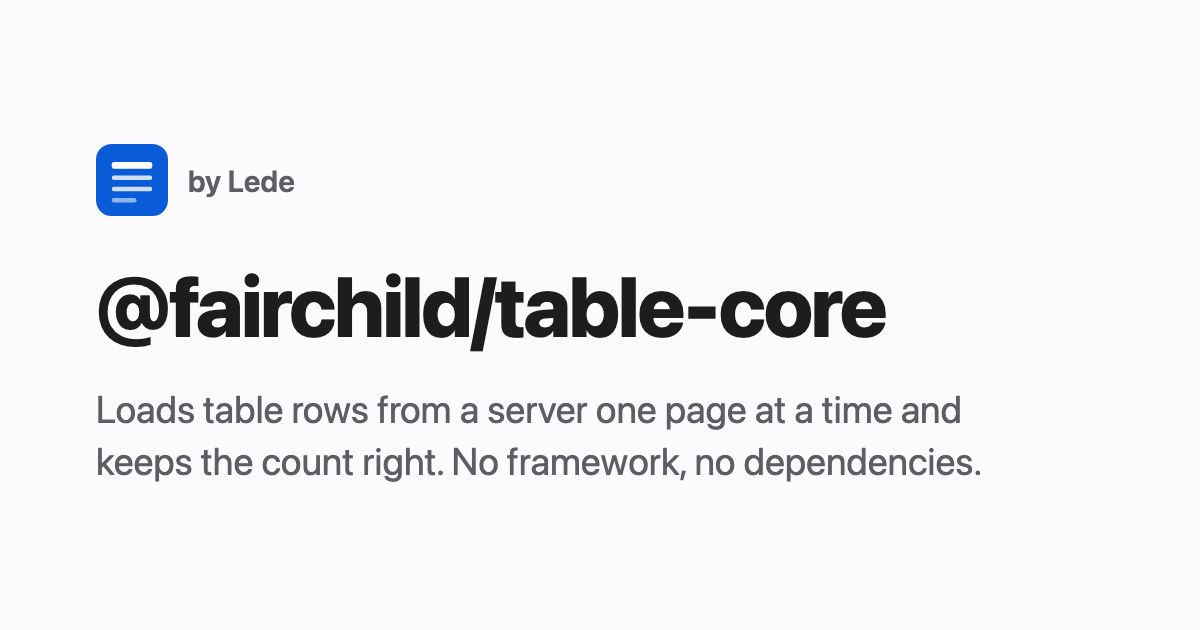
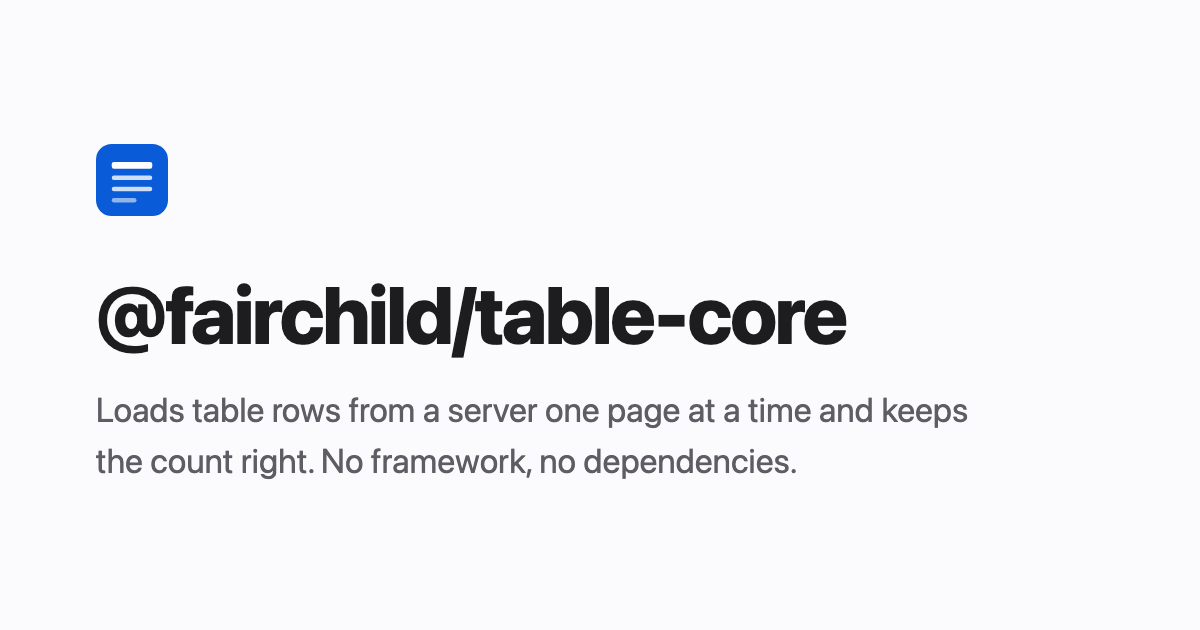
docs: table-core stands on its own (#6)
README, docs site, social image, package description and keywords no longer name or link to Lede; cross-links can return once Lede is public. LICENSE reads "The table-core authors". No code changes. CI passed on Node 22 and 24: https://github.com/fairchild/table-core/actions/runs/42748269695

Changed region(s): [[0.0617, 0.4222, 0.74, 0.573], [0.0617, 0.6333, 0.8325, 0.7841], [0.1542, 0.2714, 0.2467, 0.3317]]

diff --git a/docs/index.html b/docs/index.html
@@ -4,13 +4,13 @@
   <meta charset="utf-8">
   <meta name="viewport" content="width=device-width, initial-scale=1">
   <title>@fairchild/table-core</title>
-  <meta name="description" content="Loads table rows from a server one page at a time and keeps the count right, with helpers for selection. The framework-free part of Lede's data table.">
+  <meta name="description" content="Loads table rows from a server one page at a time and keeps the count right, with helpers for selection. It runs in any framework or in Node.">
   <link rel="icon" href="assets/favicon.svg" type="image/svg+xml">
   <link rel="canonical" href="https://fairchild.github.io/table-core/">
   <meta property="og:type" content="website">
   <meta property="og:url" content="https://fairchild.github.io/table-core/">
   <meta property="og:title" content="@fairchild/table-core">
-  <meta property="og:description" content="Loads table rows from a server one page at a time and keeps the count right, with helpers for selection. The framework-free part of Lede's data table.">
+  <meta property="og:description" content="Loads table rows from a server one page at a time and keeps the count right, with helpers for selection. It runs in any framework or in Node.">
   <meta property="og:image" content="https://fairchild.github.io/table-core/assets/og.png">
   <meta property="og:image:alt" content="@fairchild/table-core: loads table rows from a server one page at a time and keeps the count right.">
   <meta name="twitter:card" content="summary_large_image">
@@ -23,7 +23,7 @@
   <a class="skip" href="#main">Skip to content</a>
   <header class="site-header">
     <div class="inner">
-      <a class="brand" href="./">@fairchild/table-core <span>by Lede</span></a>
+      <a class="brand" href="./">@fairchild/table-core</a>
       <nav class="site-nav" aria-label="Documentation">
         <ul>
           <li><a href="./" aria-current="page">Overview</a></li>
@@ -40,12 +40,10 @@
       <h1 id="title">@fairchild/table-core</h1>
       <p class="lede">
         Loads table rows from a server one page at a time and keeps the count right, with helpers for a selection. It
-        is the part of <a href="https://lede.cloudcompute.com/">Lede</a>'s data table that doesn't depend on React or
-        the DOM, so you can use it from any framework or from Node.
+        doesn't depend on React or the DOM, so you can use it from any framework or from Node.
       </p>
       <p>
-        It has no columns, no rendering and no virtualization. You render the rows yourself, or use Lede's
-        <a href="https://lede.cloudcompute.com/blocks/data-table">DataTable</a>, which is built on the same store.
+        It has no columns, no rendering and no virtualization. You render the rows yourself.
       </p>
       <div class="install">
         <pre tabindex="0" aria-label="Install command"><code>npm install @fairchild/table-core</code></pre>
@@ -139,7 +137,7 @@
           <h3>Use it when</h3>
           <ul>
             <li>your rows live on a server and come a page at a time;</li>
-            <li>you render the table yourself, or with Lede's <a href="https://lede.cloudcompute.com/blocks/data-table">DataTable</a>;</li>
+            <li>you render the table yourself;</li>
             <li>you want a correct count, cancellation and failures without writing them.</li>
           </ul>
         </div>
@@ -197,7 +195,7 @@
         </li>
         <li class="card">
           <h3>Has no dependencies</h3>
-          <p>Plain TypeScript. Subscribe to changes and read a snapshot; Lede's React hook is a few lines on top.</p>
+          <p>Plain TypeScript. Subscribe to changes and read a snapshot; a React hook is a few lines on top.</p>
         </li>
       </ul>
     </section>
@@ -207,7 +205,6 @@
   <footer class="site-footer">
     <div class="inner">
       <span>@fairchild/table-core · MIT license</span>
-      <span>Part of Lede.</span>
     </div>
   </footer>
 </body>

diff --git a/docs/guide.html b/docs/guide.html
@@ -21,7 +21,7 @@
   <a class="skip" href="#main">Skip to content</a>
   <header class="site-header">
     <div class="inner">
-      <a class="brand" href="./">@fairchild/table-core <span>by Lede</span></a>
+      <a class="brand" href="./">@fairchild/table-core</a>
       <nav class="site-nav" aria-label="Documentation">
         <ul>
           <li><a href="./">Overview</a></li>
@@ -248,7 +248,7 @@ store.stop();</code></pre>
         </tbody>
       </table>
 </div>
-      <p>How Lede's data table renders them, as a starting point:</p>
+      <p>One way to render them, as a starting point:</p>
       <ul>
         <li><strong>Skeleton rows:</strong> <code>rows === 'none'</code>, fetching, no failure.</li>
         <li><strong>Busy</strong> (<code>aria-busy</code>): fetching while the rows on screen aren't this view's.</li>
@@ -321,7 +321,7 @@ store.reload();</code></pre>
       <p>To act on a selection, send it to your server as it is. “Select all” goes as the view and its exceptions, <code>{ view, except }</code>, so the action reaches rows that were never loaded. The quick start's <code>archive()</code> does this. Clear the selection when the view's filter changes, so an action never reaches rows that aren't shown.</p>
 
       <h2 id="react">Using it from React</h2>
-      <p>The store follows React's external-store contract, so a hook is a few lines. Lede's own <code>useServerRows</code> works like this:</p>
+      <p>The store follows React's external-store contract, so a hook is a few lines:</p>
       <pre tabindex="0"><code>function useServerRows(options) {
   const [store] = useState(
     () =&gt; new ServerRowsStore(options),

diff --git a/src/index.ts b/src/index.ts
@@ -1,4 +1,4 @@
-// @fairchild/table-core: the framework-free core of Lede's data table. Everything public is exported here; nothing else in
+// @fairchild/table-core: server-backed table rows, framework-free. Everything public is exported here; nothing else in
 // this package is part of its contract.
 export type { SortDirection, SortItem, TableView, TableFilter, FilterValue, Selection, Total, TableState } from './types.ts';
 export { isSelected, setSelected, removeFromSelection, selectionCount } from './selection.ts';

diff --git a/docs/api.html b/docs/api.html
@@ -21,7 +21,7 @@
   <a class="skip" href="#main">Skip to content</a>
   <header class="site-header">
     <div class="inner">
-      <a class="brand" href="./">@fairchild/table-core <span>by Lede</span></a>
+      <a class="brand" href="./">@fairchild/table-core</a>
       <nav class="site-nav" aria-label="Documentation">
         <ul>
           <li><a href="./">Overview</a></li>

diff --git a/test/expect.ts b/test/expect.ts
@@ -1,4 +1,4 @@
-// A small expect() over node:assert, so the tests read the same as Lede's tests and need no test library.
+// A small expect() over node:assert, so the tests read like Jest's or Vitest's and need no test library.
 import assert from 'node:assert/strict';
 
 export function expect(actual: unknown) {

diff --git a/README.md b/README.md
@@ -3,7 +3,7 @@
 **Documentation:** [fairchild.github.io/table-core](https://fairchild.github.io/table-core/) (the `docs/` folder,
 published with GitHub Pages).
 
-The framework-free core of Lede's data table. No React, no DOM, no dependencies:
+Loads table rows from a server one page at a time and keeps the count right. No React, no DOM, no dependencies:
 it runs in a browser, in Node or under any UI framework. It uses `AbortController` and `DOMException`, which both
 provide; type-check against either the DOM library or `@types/node`.
 
@@ -16,12 +16,11 @@ provide; type-check against either the DOM library or `@types/node`.
   - out-of-date requests are aborted, and duplicate ones merged;
   - `{ atLeast }` totals are followed by one exact count, kept consistent with the rows it describes.
 
-It has no columns, no rendering and no virtualization: you render the rows, or use Lede's
-[DataTable](https://lede.cloudcompute.com/blocks/data-table), which is built on the same store. Lede's React hook,
-`useServerRows`, is a thin `useSyncExternalStore` wrapper over it.
+It has no columns, no rendering and no virtualization: you render the rows. From React, a hook over it is a thin
+`useSyncExternalStore` wrapper, as [the guide](https://fairchild.github.io/table-core/guide.html#react) shows.
 
-**Use it when** your rows live on a server and come a page at a time, you render the table yourself or with Lede's
-DataTable, and you want a correct count, cancellation and failure states without writing them.
+**Use it when** your rows live on a server and come a page at a time, you render the table yourself, and you want a
+correct count, cancellation and failure states without writing them.
 
 **Use something else when** you want columns, cell rendering or virtualization (TanStack Table or a data grid), when
 all your rows are already in memory (sort them yourself), or when you want a general data cache for your whole app.

diff --git a/CHANGELOG.md b/CHANGELOG.md
@@ -5,7 +5,7 @@ Versions follow [semver](https://semver.org). Until 1.0, a minor version (0.2.0)
 
 ## 0.1.0
 
-First release. The framework-free core of Lede's data table.
+First release.
 
 ### Added
 
